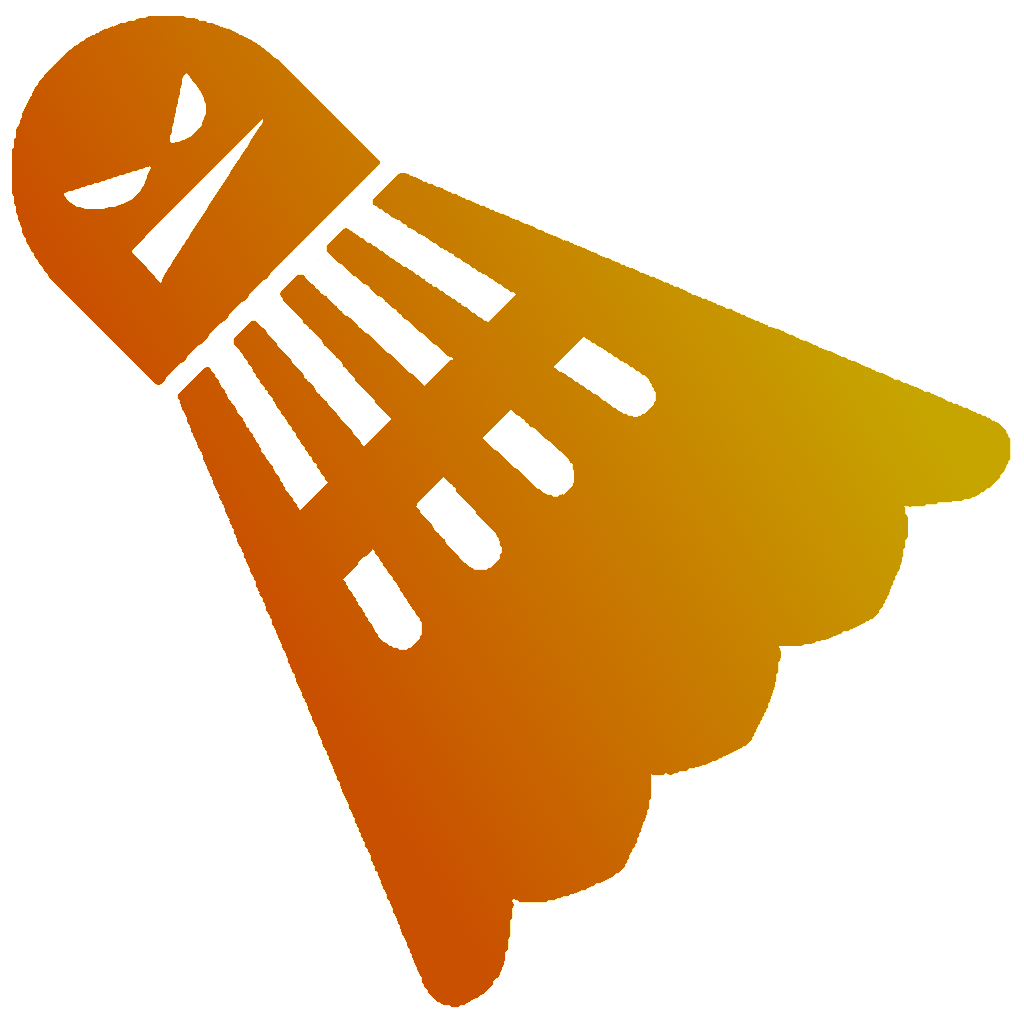
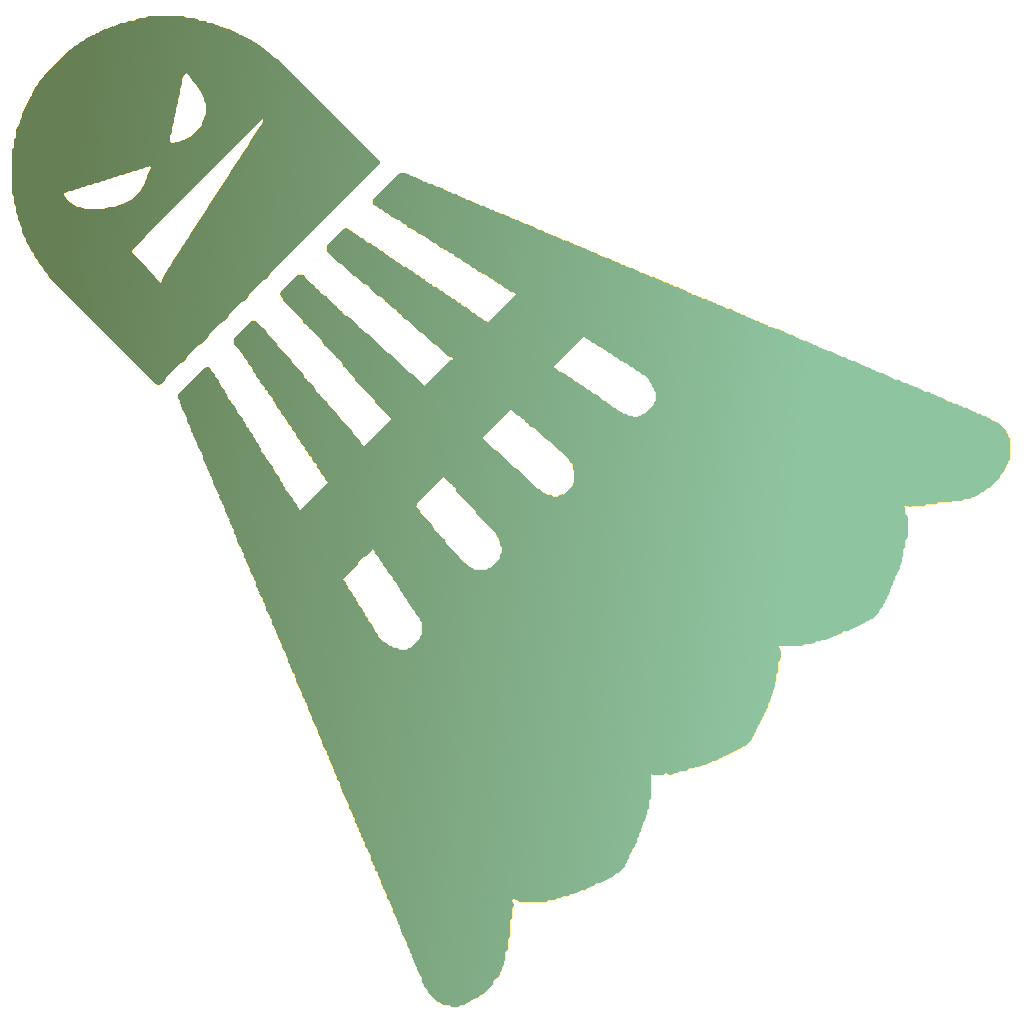
petit travail graphique

diff --git a/sabaudiaranking3/src/index.css b/sabaudiaranking3/src/index.css
@@ -15,18 +15,18 @@
 
 @layer base {
   :root {
-    --text: #000000;
-    --background: #d7d3c6;
-    --primary: #ff4400;
-    --secondary: #e9a62b;
-    --accent: #ffd333;
+    --text: #0a0d09;
+    --background: #fcfdfc;
+    --primary: #7b9a66;
+    --secondary: #a9c6b3;
+    --accent: #8db3a5;
   }
   .dark {
-    --text: #ffffff;
-    --background: #393528;
-    --primary: #ff4400;
-    --secondary: #e9a62b;
-    --accent: #cca000;
+    --text: #f4f7f3;
+    --background: #1e2a1e;
+    --primary: #7a9966;
+    --secondary: #395643;
+    --accent: #4b7163;
   }
 }
 

diff --git a/sabaudiaranking3/src/App.jsx b/sabaudiaranking3/src/App.jsx
@@ -17,6 +17,8 @@ import Globals from "./utility/Globals";
 import { getTheme, getUid } from "./utility/LocalService";
 import { GetUserFromDB } from "./services/FirebaseService";
 
+import background from "./assets/Background.png";
+
 function App() {
   const [transitionDirection, setTransitionDirection] =
     useState("right-to-left");
